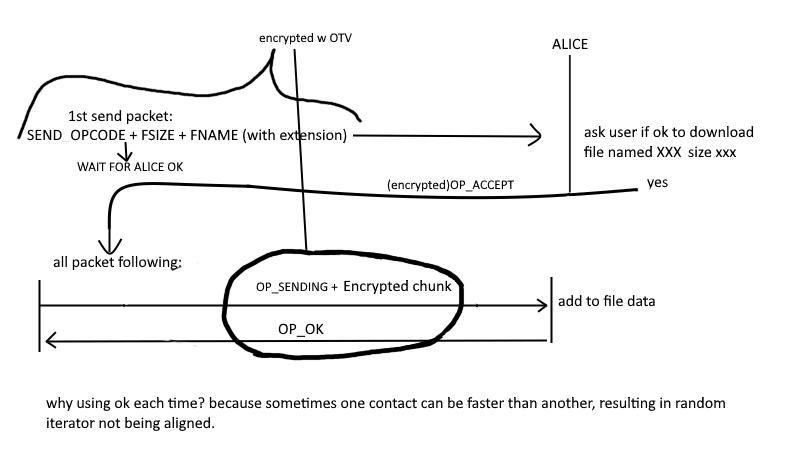
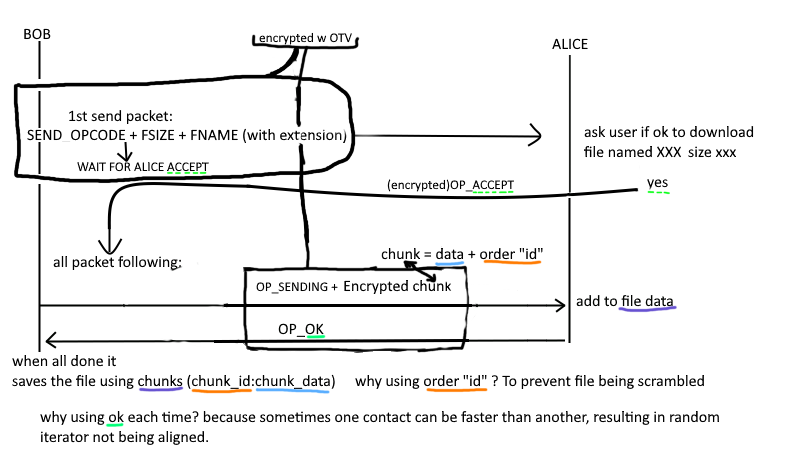
almost fixed file upload

diff --git a/client.py b/client.py
@@ -16,14 +16,18 @@ ADDRESS_LENGTH = 10#10^63-9^63 => 9.9868998e+62  possibilities ((9.9868998e+62 )
 MAIN_KEY_LENGTH = 32
 #used to find your partner: OTV (One Time Verifier added randomly to the message)
 ONE_TIME_LENGTH = 32
+#how many octets to use to store the n° order of a file chunk (a file chunk is 4096 (4063-CHUNK_INTORD_SIZE data, 32 ONE_TIME, 1 SENDING_OPCODE) octets long)
+#so in theory we can send a file of (2^(8*CHUNK_INTORD_SIZE)-1)*(4063-CHUNK_INTORD_SIZE)/(1024**4) To before hitting the limit
+CHUNK_INTORD_SIZE = 8
 
 OK_OPCODE = b"\x01"
 ASK_OPCODE = b"\x15"#don't ask me why I choose 15, you can configure it to be anything (btw 01 - ff)
 ACCEPT_OPCODE = b"\x16"
 SEND_OPCODE = b"\x17"
 SENDING_OPCODE = b"\x18"
-MAX_FILE_SIZE = 1024**3*4#4GB max accepted file size
-DEBUG = 0
+MAX_FILE_SIZE = 1024**3*4#4GB max accepted file size (self imposed limit)
+#DEBUG: 0: no debug, 1: print debug, 2: print and save debug
+DEBUG = 2
 def to_humain_readable(size:int)->str:
     for unit in ['Octets', 'Ko', 'Mo', 'Go', 'To']:
         if size < 1024.0:
@@ -211,7 +215,6 @@ class Client:
             if not re.match(self.address_reg,to_addr):return 0
             if to_addr not in self.address:return 0
             if len(data) != MAX_ASK:return 0
-            print("c")
         except:#not a valid address
             return 0
         if to_addr in self.address:
@@ -228,7 +231,7 @@ class Client:
             main_key = data[offset:offset+MAIN_KEY_LENGTH+(16%MAIN_KEY_LENGTH)]#match requirements
             null_iterator = Shake256PRNG(b"\x00")
             main_key = self.aes_decrypt(main_key, self.address[to_addr]["seed"],null_iterator)#don't decode its mainly random bytes
-            r = Shake256PRNG(main_key,debug=True)
+            r = Shake256PRNG(main_key,debug=DEBUG==1)
             self.contacts[contact] = {"main_key":main_key,"random_iterator":r}
             self.log(f"You have a new contact: {contact}")
             self.contact_update()
@@ -291,13 +294,23 @@ class Client:
         self.contact_update()
         return 1
 
+    def chunk_generator(self,contact:str):
+        """Generate chunks of a file (with chunk order)"""
+        chunk_num = 0
+        while True:
+            chunk = self.send_queue[contact]["_file"].read(4096-ONE_TIME_LENGTH-1-CHUNK_INTORD_SIZE)
+            if not chunk:break
+            chunk_num += 1
+            chunk += chunk_num.to_bytes(CHUNK_INTORD_SIZE, "big")
+            yield chunk
+
     def check_received(self,contact:str,data:bytes):
         """from a decrypted message check if the message is a request or a message"""
         offset = 1
         #0:1 -> OPCODE
         #1:9 -> FILE SIZE
         #9: -> FILE NAME
-        OPCODE = data[0:offset]
+        OPCODE = data[:offset]
         if OPCODE == SEND_OPCODE:
             #user sent a file
             file_size = int.from_bytes(data[offset:offset+8], "big")
@@ -311,43 +324,49 @@ class Client:
             if file_size > MAX_FILE_SIZE:
                 print(f"[-] File size changed ({to_humain_readable(file_size)} > {to_humain_readable(MAX_FILE_SIZE)})")
                 return
-            self.log(f"[*] Sending file: {file_name} ({to_humain_readable(file_size)})")
-            chunk = self.send_queue[contact]["file"].read(4096-ONE_TIME_LENGTH-1)#-1 for the opcode, -ONE_TIME_LENGTH for the OTV
-            if not chunk:return print("[-] Error: file is empty")
-            self.send(contact, SENDING_OPCODE + chunk)
+            self.log(f"[*] loading file {file_name} ({to_humain_readable(file_size)}) in memory")
+            self.send_queue[contact]["chunks"] = []
+            for chunk in self.chunk_generator(contact):
+                self.send_queue[contact]["chunks"].append(chunk)
+            if not self.send_queue[contact]["chunks"]:
+                print("[-] Error: no chunks to send")
+                return
+            self.log(f"[*] sending chunks for {file_name}")
+            self.send(contact, SENDING_OPCODE + self.send_queue[contact]["chunks"].pop(0))
         elif OPCODE == SENDING_OPCODE:
             #user is sending a file
             if not self.receive_queue[contact]:return#no file to receive
-            file_name = self.receive_queue[contact]["file_name"]
-            file_size = self.receive_queue[contact]["file_size"]
-            file = self.receive_queue[contact]["file"]
-            file.write(data[offset:])
-            if DEBUG:print(f"recv: {data[offset:10]}, t: {time.time()}")#debug
-            self.receive_queue[contact]["received"] += len(data[offset:])
+            chunk = data[1:]#remove the opcode
+            chunk_num = int.from_bytes(chunk[-CHUNK_INTORD_SIZE:], "big")
+            chunk_data = chunk[:-CHUNK_INTORD_SIZE]
+            if DEBUG==1:print(f"recv: {data[offset:10]}, t: {time.time()}")#debug
+            self.receive_queue[contact]["received"] += len(data[1:][:-CHUNK_INTORD_SIZE])
             self.progress(contact, self.receive_queue[contact]["received"])
+            self.receive_queue[contact]["chunks"][str(chunk_num)] = chunk_data#place:chunk
             self.send(contact, OK_OPCODE)
         elif OPCODE == OK_OPCODE:
             if data[offset:] != b"":return print("[-] Error: extra data after OK_OPCODE")
-            if DEBUG:print("OK, t: ",time.time())#debug
+            if DEBUG==1:print("OK, t: ",time.time())#debug
             if contact in self.send_queue:
-                #user need next chunk
-                file = self.send_queue[contact]["file"]
-                chunk = file.read(4096-ONE_TIME_LENGTH-1)#-1 for the opcode, -ONE_TIME_LENGTH for the OTV
-                if not chunk:
-                    file.close()
-                    del self.send_queue[contact]
+                try:
+                    chunk = self.send_queue[contact]["chunks"].pop(0)
+                except IndexError as e:
                     print("done sending file")
+                    self.send_queue[contact]["_file"].close()
+                    del self.send_queue[contact]
                     self.send(contact, OK_OPCODE)
                     return
-                if DEBUG:print(f"sent: {chunk[:10]}, t: {time.time()}")#debug
+                if DEBUG==1:print(f"sent: {chunk[:10]}, t: {time.time()}")#debug
                 self.send(contact, SENDING_OPCODE + chunk)
             elif contact in self.receive_queue:
                 #done receiving file
-                file = self.receive_queue[contact]["file"]
+                chunks = self.receive_queue[contact]["chunks"]
                 file_name = self.receive_queue[contact]["file_name"]
                 file_size = self.receive_queue[contact]["file_size"]
-                file.close()
-                print(f"file received: {file_name} ({to_humain_readable(file_size)})")
+                with open(self.receive_queue[contact]["file_path"], "wb") as file:
+                    for chunk_num in sorted(chunks, key=lambda x: int(x)):
+                        file.write(chunks[chunk_num])
+                    file.close()
                 self.progress(contact, -1)#all done
                 del self.receive_queue[contact]
                 self.log(f"[+] File received: {file_name} ({to_humain_readable(file_size)})")
@@ -404,7 +423,7 @@ class Client:
         main_key = os.urandom(MAIN_KEY_LENGTH)
         # print(f"main_key: {main_key}")#debug
         idk_contact = self.generate_address()
-        r = Shake256PRNG(main_key,debug=True)
+        r = Shake256PRNG(main_key,debug=DEBUG==1)
         self.contacts[idk_contact] = {"main_key":main_key,"random_iterator":r}#temporarly save a random contact instead of the real one
         null_iterator = Shake256PRNG(b"\x00")
         main_key = self.aes_encrypt(main_key, seed, null_iterator)
@@ -417,7 +436,7 @@ class Client:
         payload = self.aes_encrypt(payload, main_key, r)
         payload = self.add_one_time(payload,r)
         self.conn.sendall(payload)
-        if DEBUG:print(f"REAL sent: {payload[:10]}, t: {time.time()}")#debug
+        if DEBUG==1:print(f"REAL sent: {payload[:10]}, t: {time.time()}")#debug
 
     #NEXT UPDATE: (to have deterministic addresses)
     # password = input("Enter your password: ")

diff --git a/main.py b/main.py
@@ -210,8 +210,8 @@ class EphemChat(QMainWindow):
                         "file_path": file_path,
                         "file_name": file_name,
                         "file_size": file_size,
-                        "file": open(file_path, "wb"),
-                        "received": 0
+                        "chunks": {},
+                        "received": 0,
                     }
                     self.client.send(sender, ACCEPT_OPCODE)
                     self.create_progress_bar(sender)
@@ -244,7 +244,7 @@ class EphemChat(QMainWindow):
             self.client.send_queue[contact] = {
                 "file_name": file_name,
                 "file_size": file_size,
-                "file": open(file_path, "rb")
+                "_file": open(file_path, "rb"),
             }
             QMessageBox.information(self, "File added to queue", f"File {file_name} added to queue, will send when accepted")
         except OSError as e:

diff --git a/server.py b/server.py
@@ -9,8 +9,7 @@ PORT = 12345
 clients = []
 lock = threading.Lock()
 
-# Function to handle a single client
-def handle_client(conn, addr):
+def handle_client(conn: socket.socket, addr: tuple):
     global clients
     with conn:
         print(f"New client connected: {addr}")
@@ -20,7 +19,6 @@ def handle_client(conn, addr):
                 data = conn.recv(4096)
                 if not data:
                     break
-                # print(f"Received data from {addr} ({len(data)})")
                 with lock:
                     for client in clients:
                         if client != conn:
